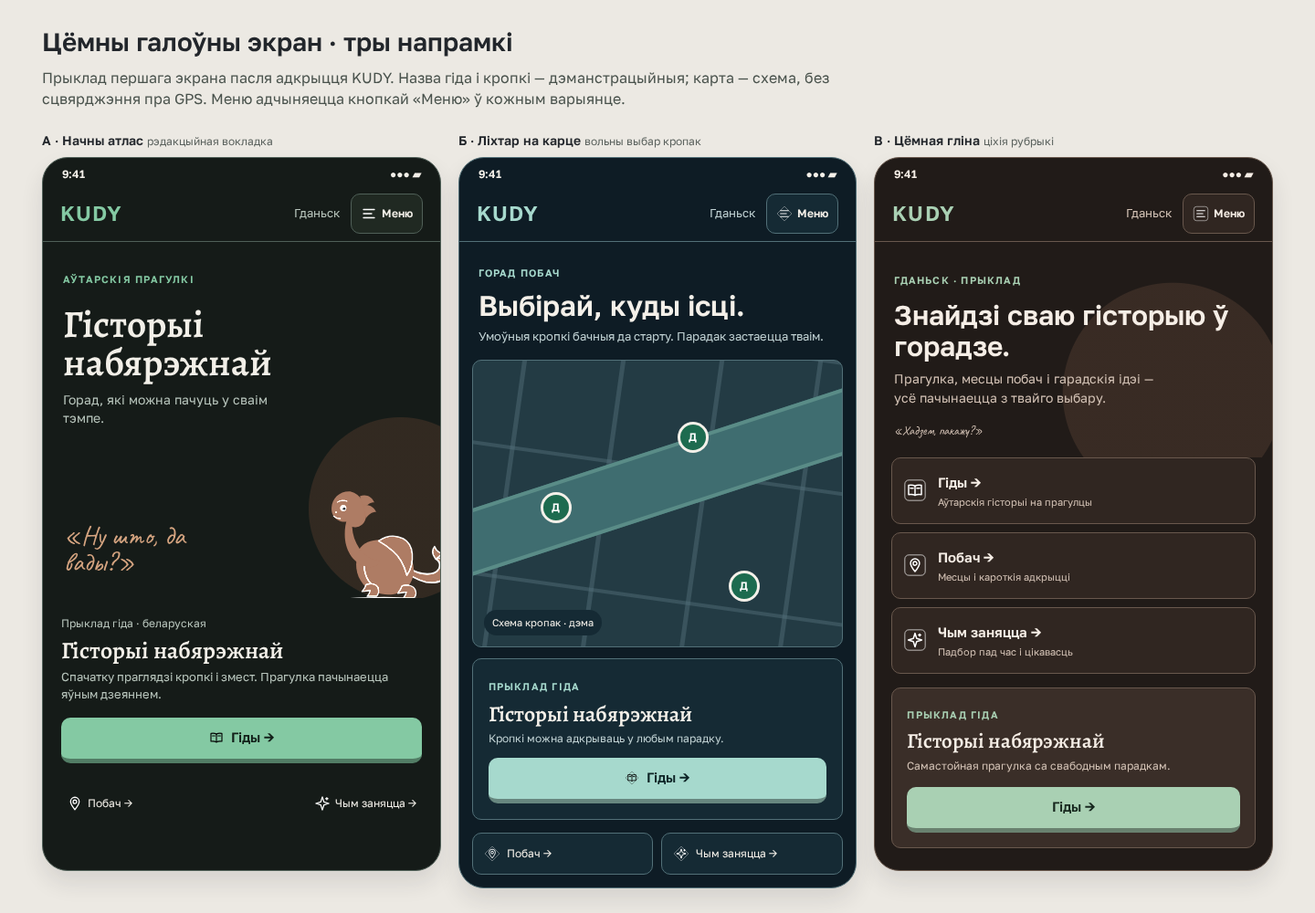
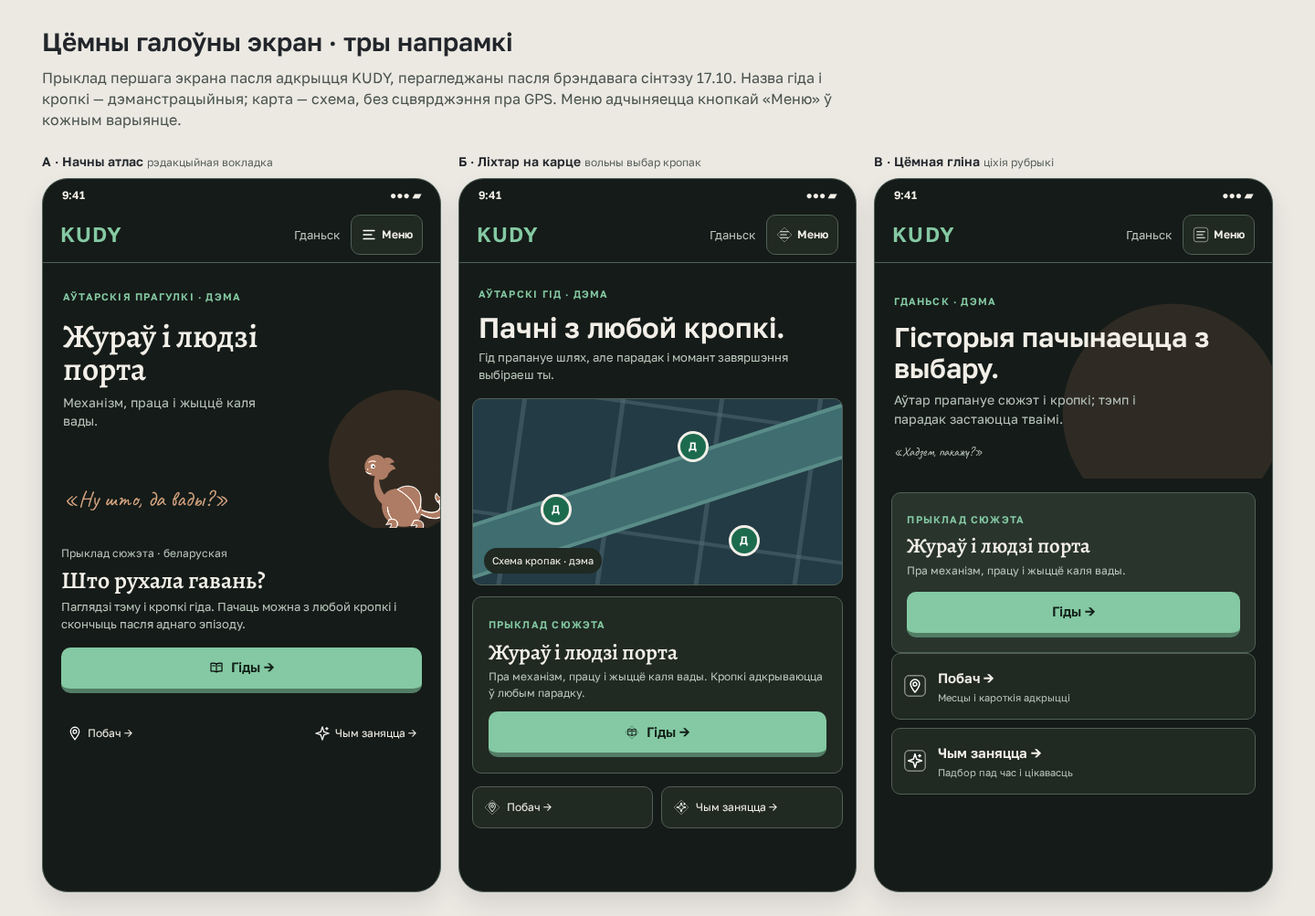
docs(design): align dark home examples with brand synthesis

diff --git a/docs/design/brand/outputs/icon-directions-2026-10-17/dark-home.html b/docs/design/brand/outputs/icon-directions-2026-10-17/dark-home.html
@@ -11,39 +11,39 @@
 *{box-sizing:border-box}body{margin:0;background:#ece9e3;color:#22262b;font:16px/1.45 Golos,system-ui,sans-serif}button{font:inherit;cursor:pointer}
 .page{max-width:1400px;margin:auto;padding:26px}.page h1{font-size:28px;margin:0 0 7px}.page>p{max-width:890px;margin:0 0 24px;color:#49524c}.gallery{display:grid;grid-template-columns:repeat(3,minmax(290px,1fr));gap:19px;align-items:start}.label{font-size:14px;font-weight:600;margin:0 0 8px}.label span{font-size:12px;font-weight:400;color:#5b625e}
 .phone{--bg:#151b18;--panel:#202922;--surface:#29342d;--ink:#f2efe8;--muted:#b8c5bc;--line:#506058;--accent:#84c9a3;--button-ink:#122019;--art:#805039;position:relative;min-height:782px;overflow:hidden;border-radius:28px;border:1px solid var(--line);background:var(--bg);color:var(--ink);box-shadow:0 13px 25px #22262b1c}
-.phone.b{--bg:#0e1c25;--panel:#152a34;--surface:#1d3741;--ink:#f4f0e9;--muted:#bfd0d2;--line:#527078;--accent:#a6d9cd;--button-ink:#0d2426;--art:#d8a551}
-.phone.c{--bg:#211b18;--panel:#302621;--surface:#3a2e28;--ink:#f6eee6;--muted:#d2c1b4;--line:#69584d;--accent:#a9d0b3;--button-ink:#17271e;--art:#c88c6b}
+.phone.b{--art:#d8a551}
+.phone.c{--art:#c88c6b}
 .status{height:30px;display:flex;align-items:center;justify-content:space-between;padding:5px 21px 0;font-size:12px;font-weight:600}.head{height:62px;padding:11px 19px;display:flex;align-items:center;justify-content:space-between;gap:12px;border-bottom:1px solid var(--line)}.brand{font-size:23px;letter-spacing:.05em;color:var(--accent);font-weight:600}.city{font-size:13px;color:var(--muted);margin-left:auto}.menu-trigger{display:flex;align-items:center;gap:5px;border:1px solid var(--line);background:var(--panel);color:var(--ink);border-radius:10px;padding:9px 10px;min-height:44px;font-size:12px;font-weight:600}
 .icon{display:inline-block;width:18px;height:18px;flex:none;object-fit:contain;filter:brightness(0) invert(1)}.icon.big{width:22px;height:22px}
 .eyebrow{text-transform:uppercase;letter-spacing:.11em;font-weight:600;font-size:11px;color:var(--accent)}.meta{font-size:12px;color:var(--muted)}h2,h3,p{margin:0}.action{width:100%;min-height:50px;border:0;border-bottom:5px solid color-mix(in srgb,var(--accent),#000 38%);border-radius:10px;background:var(--accent);color:var(--button-ink);font-weight:600;font-size:15px;display:flex;align-items:center;justify-content:center;gap:8px}.action .icon{width:16px;height:16px;filter:brightness(0)}.quiet{border:1px solid var(--line);background:var(--panel);color:var(--ink);border-radius:10px;padding:11px 12px;min-height:46px;text-align:left}
-.a .cover{padding:28px 22px 22px;min-height:390px;position:relative;overflow:hidden;background:radial-gradient(circle at 90% 75%,#80503945 0 100px,transparent 101px)}.a .cover h2{font:600 42px/.98 Alegreya,Georgia,serif;max-width:265px;margin:18px 0 11px}.a .cover .description{font-size:14px;color:var(--muted);max-width:245px}.a .dragon{position:absolute;width:169px;right:-21px;bottom:-18px;filter:brightness(1.5) saturate(.7)}.a .dragon-line{font:29px/1 Caveat,cursive;color:#d5a480;position:absolute;left:23px;bottom:25px;max-width:210px}.a .feature{padding:19px 20px}.a .feature .meta{display:block;margin-bottom:7px}.a .feature h3{font:600 26px/1.05 Alegreya,Georgia,serif;margin-bottom:6px}.a .feature p{font-size:13px;color:var(--muted);margin-bottom:16px}.a .shortcuts{display:flex;justify-content:space-between;gap:8px;margin:0 20px}.a .shortcuts button{border:0;background:transparent;color:var(--ink);min-height:50px;font-size:12px;display:flex;align-items:center;gap:5px}.a .shortcuts .icon{color:var(--accent)}
-.b .intro{padding:21px 21px 16px}.b .intro h2{font:600 31px/1.08 Golos,system-ui,sans-serif;margin:9px 0 7px}.b .intro p{font-size:13px;color:var(--muted)}.b .map{height:315px;position:relative;margin:0 14px;border:1px solid var(--line);border-radius:10px;overflow:hidden;background:repeating-linear-gradient(98deg,transparent 0 53px,#53707a77 54px 58px,transparent 59px 107px),repeating-linear-gradient(8deg,transparent 0 77px,#53707a77 78px 81px,transparent 82px 142px),#233b44}.b .water{position:absolute;left:-30px;top:97px;width:470px;height:70px;background:#3f6d70;transform:rotate(-18deg);border-block:4px solid #5a8c87}.b .map .marker{position:absolute;width:34px;height:34px;z-index:1;border:3px solid var(--ink);border-radius:50%;display:grid;place-items:center;background:#1d6b4f;color:#fff;font:600 12px Golos,system-ui,sans-serif}.b .map .marker.one{top:144px;left:74px}.b .map .marker.two{top:67px;left:224px}.b .map .marker.three{top:230px;left:280px}.b .map .map-note{position:absolute;left:12px;bottom:12px;font-size:11px;padding:6px 9px;border-radius:99px;background:var(--panel);color:var(--ink)}.b .map .marker span{position:absolute;left:-9999px}.b .guide{margin:12px 14px 0;padding:17px;background:var(--panel);border:1px solid var(--line);border-radius:10px}.b .guide h3{font:600 24px/1.1 Alegreya,Georgia,serif;margin:7px 0 5px}.b .guide p{font-size:12px;color:var(--muted);margin-bottom:12px}.b .bottom-links{display:flex;gap:9px;margin:14px}.b .bottom-links .quiet{flex:1;display:flex;gap:7px;align-items:center;font-size:12px}
+.a .cover{padding:24px 22px 22px;min-height:290px;position:relative;overflow:hidden;background:radial-gradient(circle at 90% 75%,#80503945 0 78px,transparent 79px)}.a .cover h2{font:600 36px/1 Alegreya,Georgia,serif;max-width:265px;margin:14px 0 9px}.a .cover .description{font-size:14px;color:var(--muted);max-width:245px}.a .dragon{position:absolute;width:118px;right:-15px;bottom:-14px;filter:brightness(1.5) saturate(.7)}.a .dragon-line{font:24px/1 Caveat,cursive;color:#d5a480;position:absolute;left:23px;bottom:20px;max-width:210px}.a .feature{padding:19px 20px}.a .feature .meta{display:block;margin-bottom:7px}.a .feature h3{font:600 26px/1.05 Alegreya,Georgia,serif;margin-bottom:6px}.a .feature p{font-size:13px;color:var(--muted);margin-bottom:16px}.a .shortcuts{display:flex;justify-content:space-between;gap:8px;margin:0 20px}.a .shortcuts button{border:0;background:transparent;color:var(--ink);min-height:50px;font-size:12px;display:flex;align-items:center;gap:5px}.a .shortcuts .icon{color:var(--accent)}
+.b .intro{padding:21px 21px 16px}.b .intro h2{font:600 31px/1.08 Golos,system-ui,sans-serif;margin:9px 0 7px}.b .intro p{font-size:13px;color:var(--muted)}.b .map{height:205px;position:relative;margin:0 14px;border:1px solid var(--line);border-radius:10px;overflow:hidden;background:repeating-linear-gradient(98deg,transparent 0 53px,#53707a77 54px 58px,transparent 59px 107px),repeating-linear-gradient(8deg,transparent 0 77px,#53707a77 78px 81px,transparent 82px 142px),#233b44}.b .water{position:absolute;left:-30px;top:71px;width:470px;height:58px;background:#3f6d70;transform:rotate(-18deg);border-block:4px solid #5a8c87}.b .map .marker{position:absolute;width:34px;height:34px;z-index:1;border:3px solid var(--ink);border-radius:50%;display:grid;place-items:center;background:#1d6b4f;color:#fff;font:600 12px Golos,system-ui,sans-serif}.b .map .marker.one{top:104px;left:74px}.b .map .marker.two{top:35px;left:224px}.b .map .marker.three{top:138px;left:280px}.b .map .map-note{position:absolute;left:12px;bottom:12px;font-size:11px;padding:6px 9px;border-radius:99px;background:var(--panel);color:var(--ink)}.b .map .marker span{position:absolute;left:-9999px}.b .guide{margin:12px 14px 0;padding:17px;background:var(--panel);border:1px solid var(--line);border-radius:10px}.b .guide h3{font:600 24px/1.1 Alegreya,Georgia,serif;margin:7px 0 5px}.b .guide p{font-size:12px;color:var(--muted);margin-bottom:12px}.b .bottom-links{display:flex;gap:9px;margin:14px}.b .bottom-links .quiet{flex:1;display:flex;gap:7px;align-items:center;font-size:12px}
 .c .welcome{padding:29px 21px 22px;background:radial-gradient(circle at 75% 70%,#c88c6b24 0 120px,transparent 121px)}.c .welcome h2{font:600 30px/1.13 Golos,system-ui,sans-serif;margin:12px 0 8px}.c .welcome p{font-size:14px;color:var(--muted);max-width:285px}.c .quote{font:27px/1 Caveat,cursive;color:#e1a983;margin-top:19px}.c .menu-cards{display:grid;gap:9px;padding:0 18px}.c .menu-cards button{width:100%;border:1px solid var(--line);background:var(--panel);color:var(--ink);border-radius:10px;min-height:73px;padding:12px;text-align:left;display:flex;align-items:center;gap:12px}.c .menu-cards .icon{color:var(--accent);width:26px;height:26px}.c .menu-cards strong{font-size:15px}.c .menu-cards small{display:block;color:var(--muted);font-size:11px;margin-top:2px}.c .feature{margin:15px 18px 0;padding:16px;border:1px solid var(--line);border-radius:10px;background:var(--surface)}.c .feature h3{font:600 23px/1.05 Alegreya,Georgia,serif;margin:7px 0 6px}.c .feature p{font-size:12px;color:var(--muted);margin-bottom:14px}
 .menu-overlay{display:none;position:absolute;inset:30px 0 0;background:#0009;z-index:5}.menu-overlay.open{display:block}.menu-panel{position:absolute;background:var(--panel);border:1px solid var(--line);padding:17px;box-shadow:0 15px 28px #0006}.a .menu-panel{top:58px;left:12px;right:12px;border-radius:12px}.b .menu-panel{bottom:0;left:0;right:0;border-radius:16px 16px 0 0;padding-bottom:27px}.c .menu-panel{top:0;bottom:0;right:0;width:min(82%,310px)}.menu-title{display:flex;align-items:center;justify-content:space-between;font-weight:600;font-size:17px;margin-bottom:9px}.menu-close{border:0;background:transparent;color:var(--ink);font-size:22px;min-height:44px;min-width:44px}.menu-link{width:100%;display:flex;align-items:center;gap:11px;padding:11px 6px;min-height:50px;color:var(--ink);border:0;border-top:1px solid var(--line);background:transparent;text-align:left;font-size:14px}.menu-link .icon{color:var(--accent)}.menu-panel .menu-note{font-size:11px;color:var(--muted);margin-top:13px}
 @media(max-width:1050px){.gallery{grid-template-columns:repeat(2,minmax(300px,1fr))}}@media(max-width:700px){.page{padding:16px}.gallery{grid-template-columns:1fr}.phone{max-width:390px}.page h1{font-size:23px}}
 </style>
 <main class="page">
   <h1>Цёмны галоўны экран · тры напрамкі</h1>
-  <p>Прыклад першага экрана пасля адкрыцця KUDY. Назва гіда і кропкі — дэманстрацыйныя; карта — схема, без сцвярджэння пра GPS. Меню адчыняецца кнопкай «Меню» ў кожным варыянце.</p>
+  <p>Прыклад першага экрана пасля адкрыцця KUDY, перагледжаны пасля брэндавага сінтэзу 17.10. Назва гіда і кропкі — дэманстрацыйныя; карта — схема, без сцвярджэння пра GPS. Меню адчыняецца кнопкай «Меню» ў кожным варыянце.</p>
   <div class="gallery">
     <section aria-label="Напрамак А: Начны атлас"><div class="label">А · Начны атлас <span>рэдакцыйная вокладка</span></div><div class="phone a" data-phone="a">
       <div class="status"><span>9:41</span><span>●●● ▰</span></div><header class="head"><strong class="brand">KUDY</strong><span class="city">Гданьск</span><button class="menu-trigger" type="button" aria-expanded="false" aria-controls="menu-a"><span class="icon" style="--icon:url(sets/01-ink/menu.svg)"></span>Меню</button></header>
-      <div class="cover"><span class="eyebrow">Аўтарскія прагулкі</span><h2>Гісторыі набярэжнай</h2><p class="description">Горад, які можна пачуць у сваім тэмпе.</p><img class="dragon" src="../G25.03/pose-calm.svg" alt="Канцэптуальны эскіз дракона"><p class="dragon-line">«Ну што, да вады?»</p></div>
-      <div class="feature"><span class="meta">Прыклад гіда · беларуская</span><h3>Гісторыі набярэжнай</h3><p>Спачатку праглядзі кропкі і змест. Прагулка пачынаецца яўным дзеяннем.</p><button class="action" type="button"><span class="icon" style="--icon:url(sets/01-ink/guides.svg)"></span>Гіды →</button></div>
+      <div class="cover"><span class="eyebrow">Аўтарскія прагулкі · дэма</span><h2>Жураў і людзі порта</h2><p class="description">Механізм, праца і жыццё каля вады.</p><img class="dragon" src="../G25.03/pose-calm.svg" alt="Канцэптуальны эскіз дракона"><p class="dragon-line">«Ну што, да вады?»</p></div>
+      <div class="feature"><span class="meta">Прыклад сюжэта · беларуская</span><h3>Што рухала гавань?</h3><p>Паглядзі тэму і кропкі гіда. Пачаць можна з любой кропкі і скончыць пасля аднаго эпізоду.</p><button class="action" type="button"><span class="icon" style="--icon:url(sets/01-ink/guides.svg)"></span>Гіды →</button></div>
       <div class="shortcuts"><button type="button"><span class="icon" style="--icon:url(sets/01-ink/nearby.svg)"></span>Побач →</button><button type="button"><span class="icon" style="--icon:url(sets/01-ink/discover.svg)"></span>Чым заняцца →</button></div>
       <div class="menu-overlay" id="menu-a" aria-hidden="true"><div class="menu-panel"><div class="menu-title">Меню <button class="menu-close" type="button" aria-label="Закрыць меню">×</button></div><div class="menu-items"></div><p class="menu-note">Іконка падтрымлівае назву; асноўныя раздзелы падпісаныя словамі.</p></div></div>
     </div></section>
     <section aria-label="Напрамак Б: Ліхтар на карце"><div class="label">Б · Ліхтар на карце <span>вольны выбар кропак</span></div><div class="phone b" data-phone="b">
       <div class="status"><span>9:41</span><span>●●● ▰</span></div><header class="head"><strong class="brand">KUDY</strong><span class="city">Гданьск</span><button class="menu-trigger" type="button" aria-expanded="false" aria-controls="menu-b"><span class="icon" style="--icon:url(sets/04-wayfinder/menu.svg)"></span>Меню</button></header>
-      <div class="intro"><span class="eyebrow">Горад побач</span><h2>Выбірай, куды ісці.</h2><p>Умоўныя кропкі бачныя да старту. Парадак застаецца тваім.</p></div><div class="map" role="img" aria-label="Схема трох прыкладных кропак, не геаграфічная карта"><div class="water"></div><div class="marker one">Д<span>даступна</span></div><div class="marker two">Д<span>даступна</span></div><div class="marker three">Д<span>даступна</span></div><span class="map-note">Схема кропак · дэма</span></div>
-      <div class="guide"><span class="eyebrow">Прыклад гіда</span><h3>Гісторыі набярэжнай</h3><p>Кропкі можна адкрываць у любым парадку.</p><button class="action" type="button"><span class="icon" style="--icon:url(sets/04-wayfinder/guides.svg)"></span>Гіды →</button></div><div class="bottom-links"><button class="quiet" type="button"><span class="icon" style="--icon:url(sets/04-wayfinder/nearby.svg)"></span>Побач →</button><button class="quiet" type="button"><span class="icon" style="--icon:url(sets/04-wayfinder/discover.svg)"></span>Чым заняцца →</button></div>
+      <div class="intro"><span class="eyebrow">Аўтарскі гід · дэма</span><h2>Пачні з любой кропкі.</h2><p>Гід прапануе шлях, але парадак і момант завяршэння выбіраеш ты.</p></div><div class="map" role="img" aria-label="Схема трох прыкладных кропак, не геаграфічная карта"><div class="water"></div><div class="marker one">Д<span>даступна</span></div><div class="marker two">Д<span>даступна</span></div><div class="marker three">Д<span>даступна</span></div><span class="map-note">Схема кропак · дэма</span></div>
+      <div class="guide"><span class="eyebrow">Прыклад сюжэта</span><h3>Жураў і людзі порта</h3><p>Пра механізм, працу і жыццё каля вады. Кропкі адкрываюцца ў любым парадку.</p><button class="action" type="button"><span class="icon" style="--icon:url(sets/04-wayfinder/guides.svg)"></span>Гіды →</button></div><div class="bottom-links"><button class="quiet" type="button"><span class="icon" style="--icon:url(sets/04-wayfinder/nearby.svg)"></span>Побач →</button><button class="quiet" type="button"><span class="icon" style="--icon:url(sets/04-wayfinder/discover.svg)"></span>Чым заняцца →</button></div>
       <div class="menu-overlay" id="menu-b" aria-hidden="true"><div class="menu-panel"><div class="menu-title">Меню <button class="menu-close" type="button" aria-label="Закрыць меню">×</button></div><div class="menu-items"></div><p class="menu-note">Карта ў гэтым кадры — ілюстрацыя. «Побач» адкрывае асобны стан з дазволам на пазіцыю.</p></div></div>
     </div></section>
     <section aria-label="Напрамак В: Цёмная гліна"><div class="label">В · Цёмная гліна <span>ціхія рубрыкі</span></div><div class="phone c" data-phone="c">
       <div class="status"><span>9:41</span><span>●●● ▰</span></div><header class="head"><strong class="brand">KUDY</strong><span class="city">Гданьск</span><button class="menu-trigger" type="button" aria-expanded="false" aria-controls="menu-c"><span class="icon" style="--icon:url(sets/05-tile/menu.svg)"></span>Меню</button></header>
-      <div class="welcome"><span class="eyebrow">Гданьск · прыклад</span><h2>Знайдзі сваю гісторыю ў горадзе.</h2><p>Прагулка, месцы побач і гарадскія ідэі — усё пачынаецца з твайго выбару.</p><p class="quote">«Хадзем, пакажу?»</p></div>
-      <div class="menu-cards"><button type="button"><span class="icon" style="--icon:url(sets/05-tile/guides.svg)"></span><span><strong>Гіды →</strong><small>Аўтарскія гісторыі на прагулцы</small></span></button><button type="button"><span class="icon" style="--icon:url(sets/05-tile/nearby.svg)"></span><span><strong>Побач →</strong><small>Месцы і кароткія адкрыцці</small></span></button><button type="button"><span class="icon" style="--icon:url(sets/05-tile/discover.svg)"></span><span><strong>Чым заняцца →</strong><small>Падбор пад час і цікавасць</small></span></button></div>
-      <div class="feature"><span class="eyebrow">Прыклад гіда</span><h3>Гісторыі набярэжнай</h3><p>Самастойная прагулка са свабодным парадкам.</p><button class="action" type="button">Гіды →</button></div>
+      <div class="welcome"><span class="eyebrow">Гданьск · дэма</span><h2>Гісторыя пачынаецца з выбару.</h2><p>Аўтар прапануе сюжэт і кропкі; тэмп і парадак застаюцца тваімі.</p><p class="quote">«Хадзем, пакажу?»</p></div>
+      <div class="feature"><span class="eyebrow">Прыклад сюжэта</span><h3>Жураў і людзі порта</h3><p>Пра механізм, працу і жыццё каля вады.</p><button class="action" type="button">Гіды →</button></div>
+      <div class="menu-cards"><button type="button"><span class="icon" style="--icon:url(sets/05-tile/nearby.svg)"></span><span><strong>Побач →</strong><small>Месцы і кароткія адкрыцці</small></span></button><button type="button"><span class="icon" style="--icon:url(sets/05-tile/discover.svg)"></span><span><strong>Чым заняцца →</strong><small>Падбор пад час і цікавасць</small></span></button></div>
       <div class="menu-overlay" id="menu-c" aria-hidden="true"><div class="menu-panel"><div class="menu-title">Меню <button class="menu-close" type="button" aria-label="Закрыць меню">×</button></div><div class="menu-items"></div><p class="menu-note">Той жа кароткі набор пераходаў у вузкай бакавой панэлі.</p></div></div>
     </div></section>
   </div>

diff --git a/docs/design/brand/outputs/icon-directions-2026-10-17/README.md b/docs/design/brand/outputs/icon-directions-2026-10-17/README.md
@@ -21,7 +21,7 @@
 | `05-tile` | керамічная плітка | кароткае меню з выразнымі межамі |
 | `06-thread` | лінія з маленькай аўтарскай кропкай | рэдакцыйныя паверхні |
 
-Рэкамендацыя для далейшай праверкі: `01-ink` для дзеянняў, `04-wayfinder` толькі там, дзе патрэбна пазнака напрамку, і `05-tile` для альтэрнатыўнага меню. У production цяпер застаецца Lucide праз `CanonIcon`; выбар новага набору патрабуе рашэння ў рэестры, праверкі на прыладзе і асобнай інтэграцыі. Гэта не форма лаўнчар-іконкі і не сэнсарны компас.
+Рэкамендацыя для далейшай праверкі: `01-ink` як адзіная кандыдатная сям’я функцыянальных дзеянняў. Астатнія пяць — альтэрнатывы для параўнання, а не дадатковыя мовы для адначасовага змешвання. Асабліва `04-wayfinder` не азначае зацвярджэння компаса: B05 застаецца адкрытым. У production цяпер застаецца Lucide праз `CanonIcon`; выбар новага набору патрабуе рашэння ў рэестры, праверкі на прыладзе і асобнай інтэграцыі. Гэта не форма лаўнчар-іконкі.
 
 ## Інвентар патрэбных знакаў
 
@@ -40,7 +40,15 @@
 
 Першы экран паказвае KUDY, горад, адзін сапраўдны гід або чэсны пусты стан, галоўны пераход да «Гіды →» і два ціха падпісаныя шляхі «Побач →» і «Чым заняцца →». KUDY як гісторыя сесій жыве ў меню. Ніякага аўтазапуску аўдыё або патрабавання геалакацыі пры адкрыцці экрана няма. Пераход `Explore → Горад → Гіды → прэв’ю → загрузка → Пачаць → Run` з G25.07 захоўваецца; іконкі не змяняюць паводзіны.
 
-Тры меню паказваюць адзін і той жа кароткі склад. Для першай версіі прапануецца варыянт А: бачная кнопка «Меню», у выпадаючым блоку чатыры падпісаныя пераходы. Гэта ўтрымлівае галоўны экран без яшчэ адной пастаяннай панэлі навігацыі. Б і В варта праверыць на тэлефоне пры павялічаным тэксце перад выбарам.
+Тры меню паказваюць адзін і той жа кароткі склад. Сярод гэтых цёмных прыкладаў найменш перагружаным выглядае варыянт А: бачная кнопка «Меню», у выпадаючым блоку чатыры падпісаныя пераходы. Гэта яшчэ не рашэнне пра production-навігацыю: светлая дошка ніжэй прапануе іншую схему. Б і В варта праверыць на тэлефоне пры павялічаным тэксце перад выбарам.
+
+## Пераацэнка пасля новай брэндавай размовы
+
+[Сінтэз патрабаванняў](../../2026-10-17-requirements-synthesis.md), [перадача размовы](../../2026-10-17-session-handoff.md) і [светлая дошка](../2026-10-17-style-exploration/README.md) дададзеныя ў гэты PR іншай сесіяй 17.10. Яны ўдакладнілі галоўную праверку: першы экран мусіць хутка паказаць **канкрэтны аўтарскі сюжэт і наступнае дзеянне**, а не жыць толькі атмасферай. Таму ў трох цёмных прыкладах замест агульных «гісторый набярэжнай» цяпер адзін відавочна дэманстрацыйны сюжэт пра Жураў і людзей порта; на экране А паменшаныя вокладка і дракон, на Б — схематычная карта, на В прыбраная паўторная картка «Гіды». Гэты тэкст не прэтэндуе быць гатовым аўтарскім аповедам.
+
+Усе тры цёмныя схемы цяпер маюць адну аснову чарнільнага фону і зялёнага дзеяння. Сіняваты колер застаўся толькі ў схематычнай вадзе, гліняны — каля персанажа/ілюстрацыйнага акцэнту. Гэта прапанаваныя цёмныя вытворныя ад роляў канона, а не новыя зацверджаныя токены. Гданьскія элементы патрэбныя для **вокладкі канкрэтнай гісторыі**, не для кожнай кнопкі ці іконкі. SVG застаюцца агульнай мовай KUDY паміж гарадамі.
+
+Светлая дошка прапануе два пастаянныя раздзелы з асобным дзеяннем «Побач», а гэтыя экраны — падпісанае меню без ніжняй панэлі. Абедзве схемы паказаныя як альтэрнатывы; рэальны навігацыйны кантракт трэба выбраць асобна. Дошка таксама паказвае больш выразны гданьскі малюнак і керамічнага дракона, але яе прапорцыі героя і фактычнасць архітэктуры не пацверджаныя. Цёмныя экраны не могуць лічыцца адказам на праверку светлай тэмы або поўнага шляху Explore → гід → прагулка.
 
 ## Перадача ў фронтэнд пасля выбару
 

diff --git a/docs/human-actions.md b/docs/human-actions.md
@@ -17,12 +17,8 @@ PR: спасылка (калі ёсць звязаны issue — дадаць і
 
 ## Што трэба зрабіць
 
-### 2026-10-17 — перадай матэрыялы размовы ў дызайнерскую сесію
-Што зрабіць: паведамі сесіі на іншай машыне, што ў PR #802 дададзеныя [ідэі размовы і візуальная дошка](design/brand/2026-10-17-session-handoff.md). Папрасі прачытаць гэты дакумент перад працягам дызайну; у ім аддзеленыя прынятыя патрабаванні, прапановы і адкрытыя рашэнні.
-PR: https://github.com/vokhandcrafts/KUDY/pull/802
-
-### 2026-10-17 — выберы іконкі і цёмны першы экран KUDY
-Што зрабіць: праглядзі шэсць набораў іконак, тры цёмныя галоўныя экраны і меню ў PR #802. Выберы графічную сям’ю, варыянт экрана А/Б/В і схему меню; адзнач, якія прапановы варта правяраць для production, каб рашэнні можна было запісаць у B04/B05/B06 і #436.
+### 2026-10-17 — выберы напрамак іконак і першага экрана KUDY
+Што зрабіць: параўнай шэсць набораў іконак, тры цёмныя галоўныя экраны з меню і светлую дошку ў PR #802. Выберы, які напрамак развіваць, і вырашы, ці патрэбна пастаянная ніжняя навігацыя; адзнач прапановы для праверкі перад рашэннямі B04/B05/B06 і #436.
 PR: https://github.com/vokhandcrafts/KUDY/pull/802
 
 ### 2026-10-17 — узгадні налады KUDY і правер backlog G27
